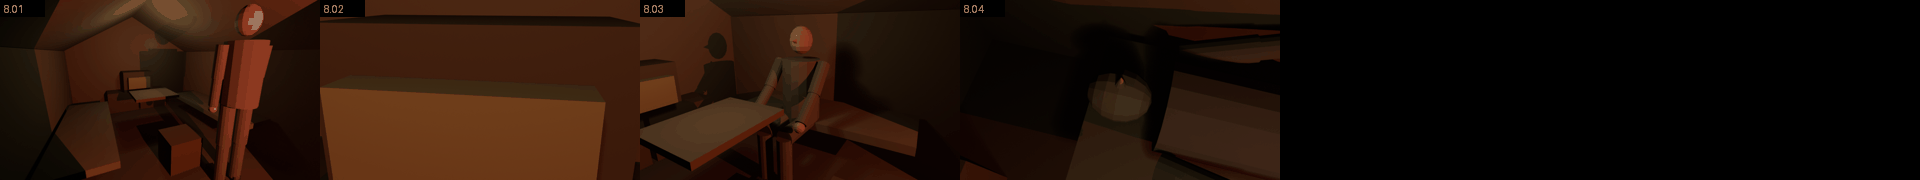
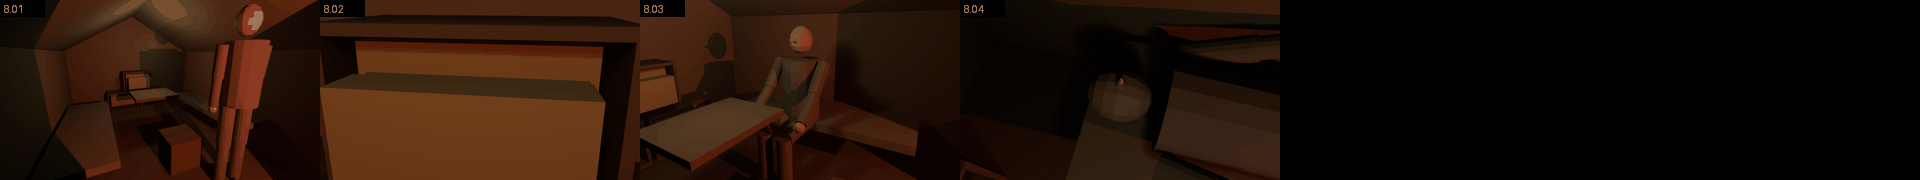
Рендеры глав 1–3, второй прогон: правки по сводке критика 15.10
Часы задаются каждой сценой (18 — 16:20, 19 — 22:15, 24 — 08:50), огнемёт в 3.03–3.04 над дрезиной
и стеной за ней, палатки ВДНХ у выхода арок рядами вдоль Главной улицы, 19.01 изнутри фабрики с дымом,
открытые полки с книгами, камера 22.02. Перерендерены сцены 3, 7, 8, 12–14, 16–20, 22, 24; манифест и заметки обновлены.

diff --git a/screenplay/env-review/renders/src/lib/locations.py b/screenplay/env-review/renders/src/lib/locations.py
@@ -472,7 +472,7 @@ def vdnkh():
     """VDNKh (scenes 7, 18, 19, 20, 24): pylon station, red emergency light. Layout follows the real station
     (WORLD.md) and the script ("two rows of tents along the platform; the passage between them is Main Street"):
     * Main Street = the open central hall (x in -4.75..4.75); laundry strung between pylons; crates, benches.
-    * Dwellings: a family tent in every arched passage between pylons (passage centres y = -73.5 + 9 k, x = ±6.9)
+    * Dwellings: a family tent in every arched passage between pylons, at its hall end (passage centres y = -73.5 + 9 k, x = ±5.7)
       and wooden 'apartments' along the side naves in front of each pylon (x = ±7.4) — about 70 homes for ~200 people.
     * Guest tent: in the east arch at y = 43.5 (x = 6.9), flap facing west onto Main Street ("edge of the platform,
       away from Main Street").
@@ -488,7 +488,8 @@ def vdnkh():
         while y + 3.0 <= 81 - 6.0 + 0.01:
             yc = y + 1.5
             if not (sx > 0 and abs(yc - 43.5) < 0.1) and yc < 60:  # leave the guest arch and the factory end
-                t = army_tent(f"arch_tent_{k}", (sx * 6.9, yc), facing=270 if sx > 0 else 90, size=(2.4, 2.6),
+                # tent at the hall end of its arch, flap 0.35 m out on Main Street: the two rows of the script read along the hall
+                t = army_tent(f"arch_tent_{k}", (sx * 5.7, yc), facing=270 if sx > 0 else 90, size=(2.4, 2.6),
                               h=rng.uniform(1.8, 2.1), open_flap=rng.random() < 0.4)
                 t.location.z = PLAT_H
             if yc - 4.5 > -78 and yc - 4.5 < 58:  # wooden 'apartment' in the side nave in front of the pylon
@@ -503,7 +504,7 @@ def vdnkh():
     scatter_crates(rng, ((-3.5, 3.5), (-70, 55)), 18, z=PLAT_H)
     box((5.0, 0.5, 4.0), (0, 80.2, PLAT_H + 2.0), mat("blast_door", (0.12, 0.12, 0.11), flat=(0.40, 0.42, 0.40), rough=0.5, metal=0.7),
         name="escalator_gate")  # sealed passage to the north vestibule
-    wall_clock("06:14", (9.85, 80.6, 5.3))
+    wall_clock("--:--", (9.85, 80.6, 5.3))  # the time is set by every scene ("clock"); run_scene refuses a scene without it
     # tea factory in the dead end before the sealed gate: rows of wires with drying mushroom caps, small fires, door tables
     # tarp partition with a wide doorway: closes the factory off from Main Street so it reads as a dead end; 2.4 m high,
     # so the existing cameras above it (19.01, 7.13) still look in
@@ -526,6 +527,22 @@ def vdnkh():
     for fx, fy in ((0, 65.5), (0, 72.5)):
         campfire_small((fx, fy, PLAT_H))
     scatter_crates(rng, ((-4.0, 4.0), (62, 76)), 8, z=PLAT_H)
+    # smoke of the drying fires hanging under the vault ("дымки костров"): a thin grey volume, lit pass only
+    smoke = box((9.0, 14.0, 4.5), (0, 69.0, PLAT_H + 2.6), _smoke_mat(), name="tea_smoke")
+    smoke["lit_only"] = True
+
+
+def _smoke_mat():
+    m = bpy.data.materials.get("smoke") or bpy.data.materials.new("smoke")
+    m.use_nodes = True
+    nt = m.node_tree
+    nt.nodes.clear()
+    v = nt.nodes.new("ShaderNodeVolumePrincipled")
+    v.inputs["Color"].default_value = (0.5, 0.48, 0.45, 1)
+    v.inputs["Density"].default_value = 0.12
+    nt.links.new(v.outputs[0], nt.nodes.new("ShaderNodeOutputMaterial").inputs["Volume"])
+    m["flat"] = (0.5, 0.5, 0.5)
+    return m
 
 
 def campfire_small(at, energy=60):
@@ -616,7 +633,10 @@ def sukhoi_tent():
         box((0.7, 1.9, 0.08), (x, 0.3, 0.42), cot, name="cot")
     books = mat("books", (0.35, 0.30, 0.15), flat=(0.85, 0.75, 0.40))
     for i, (x, z) in enumerate(((-0.4, 0.25), (0.4, 0.25), (0, 0.75))):
-        box((0.75, 0.4, 0.5), (x, 1.85, z), mat("crate_wood", (0.12, 0.09, 0.06), flat=(0.55, 0.40, 0.25)), name="shelf_crate")
+        wood = mat("crate_wood", (0.12, 0.09, 0.06), flat=(0.55, 0.40, 0.25))
+        for size, off in (((0.75, 0.03, 0.5), (0, 0.185, 0)), ((0.03, 0.4, 0.5), (-0.36, 0, 0)), ((0.03, 0.4, 0.5), (0.36, 0, 0)),
+                          ((0.75, 0.4, 0.03), (0, 0, -0.235)), ((0.75, 0.4, 0.03), (0, 0, 0.235))):  # crate on its side, open to the tent
+            box(size, (x + off[0], 1.85 + off[1], z + off[2]), wood, name="shelf_crate")
         box((0.6, 0.25, 0.3), (x, 1.85, z + 0.05), books, name="books")
     crate("seat_crate", (0.0, -0.4), 0)
     box((0.8, 0.6, 0.05), (0.0, 0.6, 0.7), mat("door_table", (0.18, 0.15, 0.11), flat=(0.60, 0.52, 0.40)), name="table")

diff --git a/screenplay/env-review/renders/src/run_scene.py b/screenplay/env-review/renders/src/run_scene.py
@@ -26,7 +26,8 @@ kit.setup_render()
 LOCATIONS[spec["location"]]()
 # Scene state controlled by the scene, not baked into the location (env-critic rule E): clock time and how bright
 # the location's own lights are ("night" at a station dims them).
-if "clock" in spec and "clock_digits" in bpy.data.objects:
+if "clock_digits" in bpy.data.objects:  # a station clock is in this location: the scene must say what it shows
+    assert "clock" in spec, f'{spec["id"]}: location {spec["location"]} has a clock, set "clock": "HH:MM" in the scene'
     bpy.data.objects["clock_digits"].data.body = spec["clock"]
 for o in list(bpy.context.scene.objects):
     if o.type == "LIGHT":
@@ -58,8 +59,13 @@ for name, c in spec["cast"].items():
 if spec["location"] == "vdnkh":  # ~200 people live here; at night most are inside their tents
     busy = [tuple(e.get("pos") or e.get("to"))[:2] for e in spec["events"] if e["do"] in ("place", "walk")]
     busy += [tuple(c[:2]) for c in spec.get("crates", [])]
+    for sh in spec["shots"]:  # keep the first 6 m in front of every hand-placed lens clear of extras
+        c = sh.get("cam", {})
+        if isinstance(c.get("pos"), list) and isinstance(c.get("at"), list):
+            p0, d = Vector(c["pos"][:2]), (Vector(c["at"][:2]) - Vector(c["pos"][:2])).normalized()
+            busy += [tuple(p0 + d * k) for k in range(0, 7)]
     kit.crowd(spec.get("crowd", 60 if spec.get("light_scale", 1) >= 1 else 12),
-              [((-4.0, 4.0), (-72, 58)), ((5.6, 6.0), (-72, 58)), ((-6.0, -5.6), (-72, 58))], PLAT_H_VDNKH, busy)
+              [((-3.7, 3.7), (-72, 58))], PLAT_H_VDNKH, busy)
 for i, c in enumerate(spec.get("crates", [])):  # [x, y, facing] or [x, y, facing, floor_z]
     kit.crate(f"crate_{i}", (c[0], c[1], c[3] if len(c) > 3 else 0.0), c[2])
 props = {}

diff --git a/screenplay/env-review/renders/src/lib/kit.py b/screenplay/env-review/renders/src/lib/kit.py
@@ -405,6 +405,9 @@ def render_pass(kind, path):
             if o.type in ("MESH", "FONT") and o.name not in CHAR_OBJECTS:
                 saved[o.name] = tuple(o.color)
                 o.color = (0.35, 0.35, 0.35, 1)
+    for o in sc.objects:  # smoke volumes only exist for the lit pass; in Workbench they would be solid boxes
+        if o.get("lit_only"):
+            o.hide_render = kind != "lit"
     bpy.ops.render.render(write_still=True)
     for n, c in saved.items():
         sc.objects[n].color = c
@@ -470,14 +473,14 @@ def searchlight(name, handheld=False):
     return root
 
 
-def flame_jet(name, length=6.0):
+def flame_jet(name, length=6.0, width0=0.08):
     """Flamethrower jet along +Y: an emissive cone with a strong light inside; toggle it with show/hide."""
     root = empty(name)
     # a wall of orange fire that widens to fill the tunnel, not a white needle (emission kept low so AgX keeps the colour)
     fire = mat("flame_jet", (0, 0, 0), flat=(1.0, 0.55, 0.05), rough=1, emit=(1.0, 0.22, 0.02), strength=0.9)
     core = mat("flame_core", (0, 0, 0), flat=(1.0, 0.75, 0.2), rough=1, emit=(1.0, 0.45, 0.06), strength=2.0)
     for m, r, n in ((fire, 1.8, "cone"), (core, 0.7, "core")):
-        c = cone(0.08, r, length, (0, 0, 0), m, (math.pi / 2, 0, math.pi), f"{name}.{n}")
+        c = cone(width0 * r / 1.8, r, length, (0, 0, 0), m, (math.pi / 2, 0, math.pi), f"{name}.{n}")  # width0: radius at the nozzle end
         c.visible_shadow = False
         attach(c, root, (0, length / 2, 0))
     bpy.ops.object.light_add(type="POINT")

diff --git a/screenplay/env-review/renders/manifest.md b/screenplay/env-review/renders/manifest.md
@@ -1,4 +1,4 @@
-# Манифест рендеров глав 1–3 (15.10.2026)
+# Манифест рендеров глав 1–3 (15.10.2026, второй прогон)
 
 Номер сцены = порядковый номер заголовка .ИНТ./.НАТ. в `screenplay/metro2033.fountain` (совпадает с `requirements-01-23.md`; сцена 24 — следующий заголовок).
 `scene-NN.png` — лист со светом (первый кадр каждого плана), `scene-NN-flat.png` — то же в плоских цветах. `place-<имя>.png` — обзор места без людей: слева свет, справа плоские цвета.
@@ -26,13 +26,13 @@
 | 15 | scene-15.png | ИНТ. СЕВЕРНЫЙ ТУННЕЛЬ — 250-Й МЕТР — СОН | tunnel_250 | нет часов |
 | 16 | scene-16.png | ИНТ. ПАЛАТКА СУХОГО — ДЕНЬ | sukhoi_tent | нет часов |
 | 17 | scene-17.png | ИНТ. ПАЛАТКА СУХОГО — ПОЗЖЕ | sukhoi_tent | нет часов |
-| 18 | scene-18.png | ИНТ. СТАНЦИЯ ВДНХ — У ГОСТЕВОЙ ПАЛАТКИ — ДЕНЬ | vdnkh | 06:14 |
-| 19 | scene-19.png | ИНТ. ЧАЙНАЯ ФАБРИКА — НОЧЬ | vdnkh | 06:14 |
+| 18 | scene-18.png | ИНТ. СТАНЦИЯ ВДНХ — У ГОСТЕВОЙ ПАЛАТКИ — ДЕНЬ | vdnkh | 16:20 |
+| 19 | scene-19.png | ИНТ. ЧАЙНАЯ ФАБРИКА — НОЧЬ | vdnkh | 22:15 |
 | 20 | scene-20.png | ИНТ. СТАНЦИЯ ВДНХ — ГЛАВНАЯ УЛИЦА — «НОЧЬ» | vdnkh | 23:40 |
 | 21 | scene-21.png | ИНТ. БЕЛАЯ КОМНАТА — ВИДЕНИЕ | white_room | нет часов |
 | 22 | scene-22.png | ИНТ. ПАЛАТКА СУХОГО — ДЕНЬ | sukhoi_tent | нет часов |
 | 23 | scene-23.png | ИНТ. ВДНХ — КАБИНЕТ НАЧАЛЬСТВА — ДЕНЬ | vdnkh_office | нет часов |
-| 24 | scene-24.png | ИНТ. ВДНХ — ПЛАТФОРМА У ЮЖНОГО ТУННЕЛЯ — ДЕНЬ | vdnkh | 06:14 |
+| 24 | scene-24.png | ИНТ. ВДНХ — ПЛАТФОРМА У ЮЖНОГО ТУННЕЛЯ — ДЕНЬ | vdnkh | 08:50 |
 
 ## Места
 
@@ -62,7 +62,7 @@
 
 ### vdnkh — `place-vdnkh.png`
 
-Размеры: Пилонная трёхсводчатая глубокая: длина платформы 162 м; центральный зал шириной 9,5 м (x ±4,75), свод эллиптический, пята на 5,3 м над путём, высота ~8,2 м над путём (~7,1 м над платформой); 18 пилонов с каждой стороны, шаг 9 м (пилон 6 м + проход 3 м), арки проходов круглые с зелёными софитами; боковые залы — платформа до x ±8,25, пути x ±9,85, путевая стена x ±11,65, верх платформы 1,1 м. Северный торец: гермозатвор эскалаторного хода (5 × 4 м) по оси у y 80; чайная фабрика y 62–76 за брезентовой перегородкой 2,4 м (y 61,8, проход 3,4 м); часы над восточным порталом (9,85; 80,6; 5,3). Палатки — по одной в каждом арочном проходе (x ±6,9), деревянные «квартиры» вдоль боковых залов (x ±7,45), гостевая палатка (6,9; 43,5). Фоновые жители добавляются при сборке сцены (60 днём, 12 ночью, в сцене 7 — 170). За каждым путевым порталом 30 м туннеля.
+Размеры: Пилонная трёхсводчатая глубокая: длина платформы 162 м; центральный зал шириной 9,5 м (x ±4,75), свод эллиптический, пята на 5,3 м над путём, высота ~8,2 м над путём (~7,1 м над платформой); 18 пилонов с каждой стороны, шаг 9 м (пилон 6 м + проход 3 м), арки проходов круглые с зелёными софитами; боковые залы — платформа до x ±8,25, пути x ±9,85, путевая стена x ±11,65, верх платформы 1,1 м. Северный торец: гермозатвор эскалаторного хода (5 × 4 м) по оси у y 80; чайная фабрика y 62–76 за брезентовой перегородкой 2,4 м над платформой (y 61,8, проход 3,4 м): проволоки с грибами, два стола из дверей, два костра, дым (объём, только в проходе со светом); часы над восточным порталом (9,85; 80,6; 5,3). Палатки — по одной в каждом арочном проходе, у его выхода в центральный зал (центр x ±5,7, полог выступает на улицу на 0,35 м): два ряда вдоль Главной улицы, деревянные «квартиры» вдоль боковых залов (x ±7,45), гостевая палатка (6,9; 43,5). Фоновые жители добавляются при сборке сцены (60 днём, 12 ночью, в сцене 7 — 170). За каждым путевым порталом 30 м туннеля.
 
 Собственный свет модели: side_nave_light ×18, POINT, 120.0 Вт, цвет RGB 1.00/0.22/0.12; chandelier_light ×18, POINT, 200.0 Вт, цвет RGB 1.00/0.22/0.12; small_fire_light ×2, POINT, 60.0 Вт, цвет RGB 1.00/0.50/0.20.
 
@@ -80,7 +80,7 @@
 
 ### sukhoi_tent — `place-sukhoi_tent.png`
 
-Размеры: Армейская палатка: внутр. ~2,9 × 4,0 м, высота под коньком 2,15 м; лампа под коньком.
+Размеры: Армейская палатка: внутр. 3,2 × 4,2 м, стены 1,5 м, высота под коньком ~2,35 м; полки — ящики на боку, открытые в палатку, с книгами; лампа под коньком.
 
 Собственный свет модели: tent_lamp ×1, POINT, 120.0 Вт, цвет RGB 1.00/0.75/0.45.
 
@@ -107,7 +107,7 @@
 Свет сцены: нет.
 
 **Сцена 3** (peregon_savelovskaya, light_scale 1.0): свет места — savelovskaya_light ×1, POINT, 1500.0 Вт, цвет RGB 1.00/0.80/0.55.
-Свет сцены: handcar_glow (POINT, на handcar, старт 700 Вт, цвет 0.80/0.85/1.00). События: 3.03: flame виден.
+Свет сцены: handcar_glow (POINT, на handcar, старт 700 Вт, цвет 0.80/0.85/1.00). События: 3.03: flame_high виден; 3.04: flame_high скрыт; 3.04: flame_wall виден.
 
 **Сцена 4** (tunnel_250, light_scale 1.0): свет места — fire_light ×1, POINT, 79.1 Вт, цвет RGB 1.00/0.52/0.22.
 Свет сцены: kirill_beam (SPOT, на Kirill.hand_R, старт 0 Вт, цвет 1.00/0.92/0.80). События: 4.08+0.5 с: kirill_beam → 1800 Вт; 4.20: kirill_beam → 0 Вт; 4.08: kirill_lamp виден.

diff --git a/screenplay/env-review/renders/AUTHOR_NOTES.md b/screenplay/env-review/renders/AUTHOR_NOTES.md
@@ -39,3 +39,20 @@
 - 7.02 — палатки стоят в арках, а не двумя рядами вдоль центрального зала (решение по планировке, см. `vdnkh()` в `src/lib/locations.py`).
 - Кордон: мешки по пояс (1,2 м), критик писал «по колено» — помощник не согласен.
 - Часы на ВДНХ в сценах 18, 19 и 24 показывают 06:14 (значение по умолчанию): время в этих сценах не задано. Найдено при сборке манифеста, не исправлено.
+
+## Второй прогон — правки по `2026-10-15-visual-summary.md`
+
+Перерендерены сцены 3, 7, 8, 12, 13, 14, 16, 17, 18, 19, 20, 22, 24; листы и `place-vdnkh.png`, `place-sukhoi_tent.png` заменены.
+
+| # | Находка | Что сделано |
+|---|---|---|
+| Важно 4 | Часы 06:14 по умолчанию в 18, 19, 24 | Значение по умолчанию убрано (`--:--`), `run_scene.py` падает, если на месте с часами у сцены нет `clock`. Сцена 18 — 16:20, 19 — 22:15, 24 — 08:50 (караван «завтра в девять»). Согласование 18 с «ровно двое суток» до 23:40 сцены 20 — вопрос к сценарию: сцена 18 помечена «ДЕНЬ». |
+| Важно 2 | 3.04 струя сквозь людей на дрезине | Две струи: в 3.03 и начале 3.04 узкая, высоко (ось на 3,6 м, над головами ~2,4 м) — дрезина проходит под ней; через 0,8 с после начала 3.04, когда дрезина за мешками, — стена на всё сечение (радиус 1,6 м у сопла, 2,3 м в конце), бьёт вниз в крыс. |
+| Важно 3 | Нет двух рядов палаток в общих планах 7 | Палатки остаются в арках (решение пользователя), но стоят у выхода арки в центральный зал, полог выступает на улицу: на общих планах два ряда вдоль Главной улицы. Массовка — только в центральном зале и не ближе 6 м перед объективом ручных камер. |
+| Важно 5 | 19.01 упирается в перегородку, нет реквизита | Камера внутри фабрики (y 62,4); в кадре проволоки с грибами, столы, два костра, рабочие; добавлен дым (объём, только в проходе со светом). |
+| Важно 1 | Метки 250/300 в 6,7 м | Не трогали, как просил критик: в сценарии «чуть дальше, на границе света» — решает пользователь. |
+| Средне | 8.02 книги в глухом ящике | Полки — ящики на боку, открытые в палатку; книги видны. |
+| Средне | 22.02 камера внутри Сухого | Камера сбоку от головы лежащего Артёма, профиль. |
+| Средне | Огнемёт — конус | См. «Важно 2». Цвет пламени под AgX всё ещё бледный. |
+
+Не сделано в этом прогоне (средне): эскалатор и вестибюль Ботанического сада (север/юг, три ленты), кровля ротонды, обделка кордона, крысы до колен и дрезина в сцене 2, место чайной фабрики (север/юг), свет утра/дня в палатке, высота палатки (~2,35 м — Хантеру нагибаться не обязательно), «бурый» цвет ночи 20, место гостевой палатки, кабинет, позы (рукопожатие, ремень, похлопывание).
